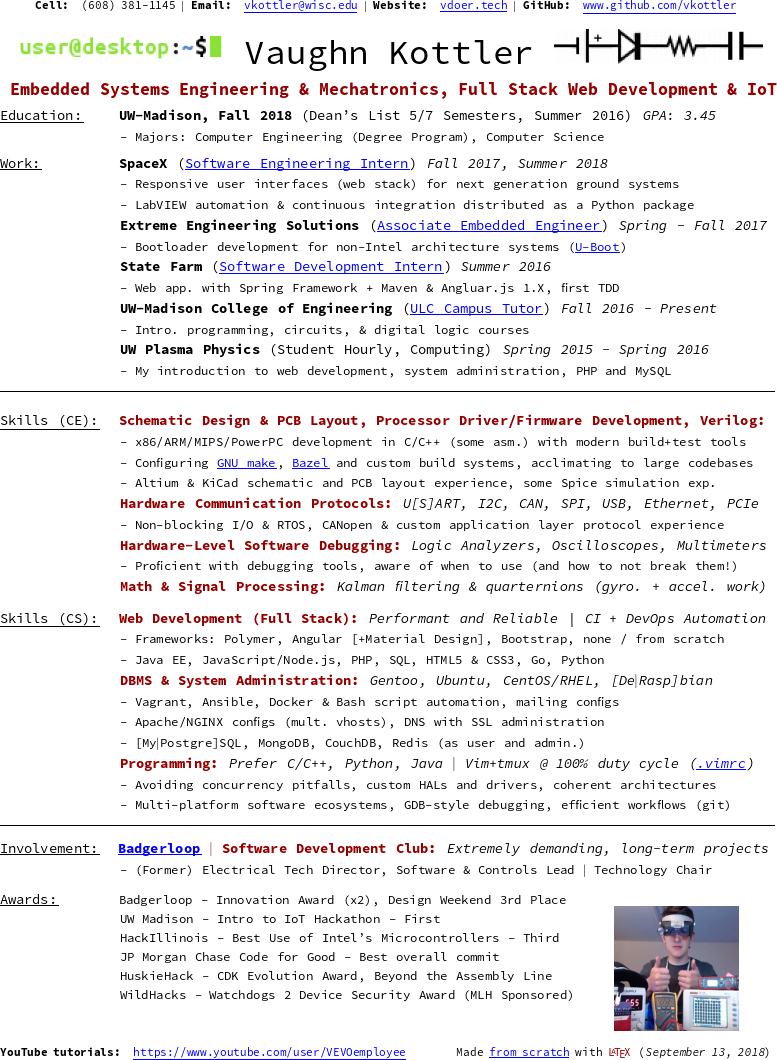
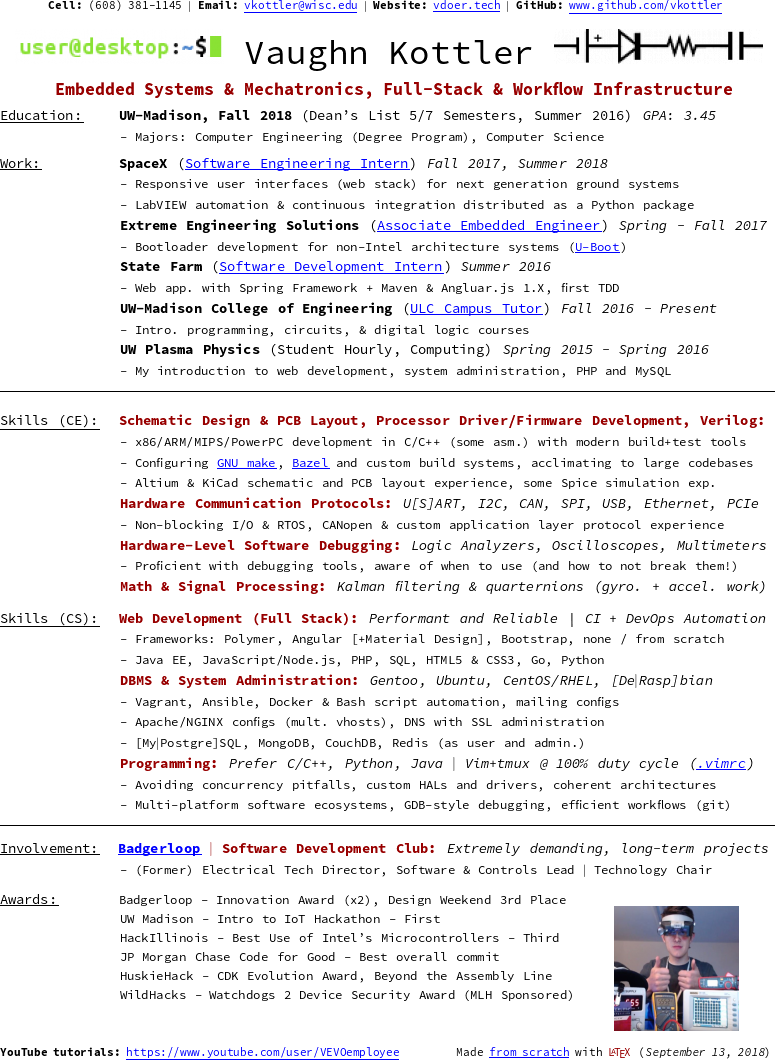
Minor changes to resume

Changed region(s): [[0.0, 0.0, 1.0, 1.0], [0.1548, 0.7783, 0.2477, 0.8094]]

diff --git a/main.tex b/main.tex
@@ -78,10 +78,10 @@
 
 % Top header
 \chead{\footnotesize
-    \textbf{Cell:} (608) 381-1145 $\vert$
-    \textbf{Email:} \LINK{vkottler@wisc.edu} $\vert$
-    \textbf{Website:} \LINK{vdoer.tech} $\vert$
-    \textbf{GitHub:} \LINK{www.github.com/vkottler}
+    \textbf{Cell:}\ (608) 381-1145 $\vert$
+    \textbf{Email:}\ \LINK{vkottler@wisc.edu} $\vert$
+    \textbf{Website:}\ \LINK{vdoer.tech} $\vert$
+    \textbf{GitHub:}\ \LINK{www.github.com/vkottler}
 }
 
 % Get rid of header horizontal rule
@@ -97,8 +97,7 @@
 	with {\color{maroon}\LaTeX{}} (\textit{\today})
 }
 \lfoot{\footnotesize
-    \textbf{YouTube tutorials:}
-	\LINK{https://www.youtube.com/user/VEVOemployee}
+    \textbf{YouTube tutorials:}\ \LINK{https://www.youtube.com/user/VEVOemployee}
 }
 %%%%%%%%%%%%%%%%%%%%%%%%%%%%%%%%%%%%%%%%%%%%%%%%%%%%%%%%%%%%%%%%%%%%%%%%%%%%%%%
 %%%%%%%%%%%%%%%%%%%%%%%%%%%%%%%%%%%%%%%%%%%%%%%%%%%%%%%%%%%%%%%%%%%%%%%%%%%%%%%

diff --git a/sections/name.tex b/sections/name.tex
@@ -8,9 +8,7 @@
 % Tagline
 \begin{center}\large
     \color{maroon}\textbf{
-        Embedded Systems Engineering\
-		\& Mechatronics,\
-		Full Stack Web Development\
-		\& IoT
+        Embedded Systems \& Mechatronics,\
+		Full-Stack \& Workflow Infrastructure
     }
 \end{center}
